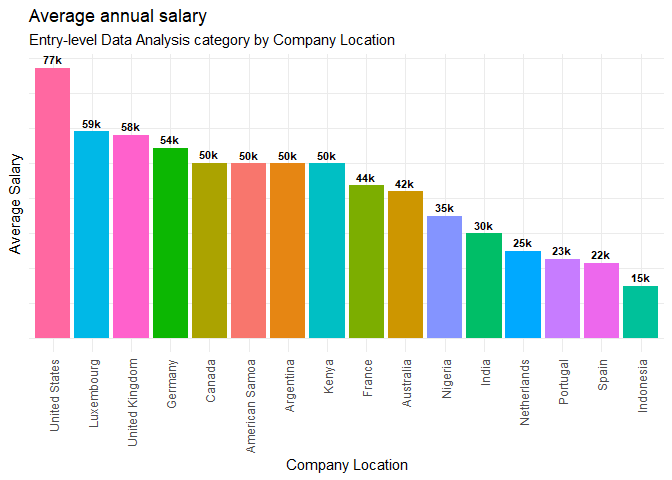
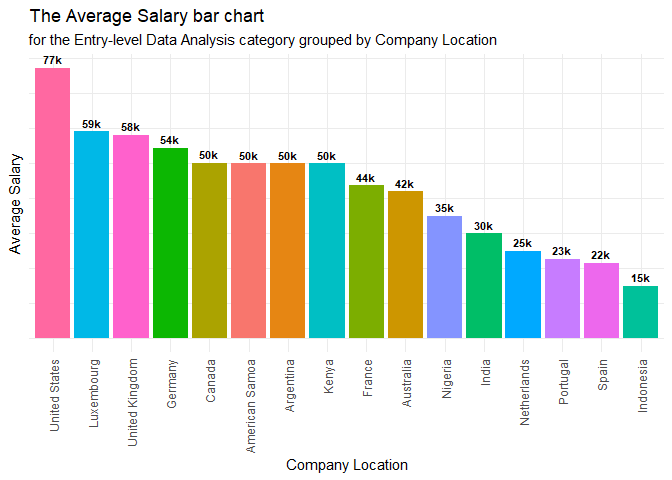
updating

Changed region(s): [[0.0312, 0.0, 0.75, 0.0938]]

diff --git a/Jobs_Salary_Data_Science.md b/Jobs_Salary_Data_Science.md
@@ -12,7 +12,7 @@ Jobs and Salaries in Data-Related Careers
   - [6.1 Average salary x `job_category` x
     `experience level`](#61-average-salary-x-job_category-x-experience-level)
   - [6.2 Exploring the Entry-level Data Analysis
-    profession](#62-exploring-the-entry-level-data-analysis-profession)
+    category](#62-exploring-the-entry-level-data-analysis-category)
   - [6.3 Where does the Entry-level Data Analysis job category have the
     best
     salaries?](#63-where-does-the-entry-level-data-analysis-job-category-have-the-best-salaries)
@@ -561,7 +561,7 @@ ggplot(summary_table, aes(x = experience_level, y = job_category, fill = average
   geom_tile(color = "white", linewidth = 0.5) +  # Add borders to tiles
   geom_text(aes(label = scales::number_format(accuracy = 1, scale = 1e-3, suffix = "k")(average_salary)), vjust = 1, size = 3, fontface = "bold") +
   scale_fill_gradient(low = "yellow", high = "blue", name = "Average Salary in USD", labels = scales::number_format(accuracy = 1, scale = 1e-3, suffix = "k")) +  # Customize the color scale
-  labs(title = "Average Salary in USD Heat Map", subtitle = "Grouped by Job Category and Experience Level",
+  labs(title = "The Average Salary Heat Map", subtitle = "Grouped by Job Category and Experience Level",
        x = "Experience Level",
        y = "Job Category") +
   theme_minimal()  # Use a minimal theme 
@@ -591,7 +591,7 @@ Based on the heat map results, the following observations can be made:
   positions of ‘Machine Learning AI’ with 207k and ‘Data Science and
   Research’ with 204k.
 
-## 6.2 Exploring the Entry-level Data Analysis profession
+## 6.2 Exploring the Entry-level Data Analysis category
 
 This section focuses on the **Entry-level Data Analysis subgroup** as it
 pertains to the business task.
@@ -616,7 +616,7 @@ summary_table <- data_analyst %>%  # create a summary tibble
 ggplot(summary_table, aes(x = experience_level, y = frequency, fill = experience_level)) +
   geom_bar(stat = "identity", position = "dodge") +
   geom_text(aes(label = frequency, vjust = 0.0)) +
-  labs(title = "Experience level distribution",
+  labs(title = "Experience level ocurrences bar chart",
        x = "Experience level",
        y = "Frequency",
        subtitle = " for the Data Analysis job category"
@@ -631,7 +631,7 @@ ggplot(summary_table, aes(x = experience_level, y = frequency, fill = experience
 ggplot(data_analyst, aes(x = experience_level, y = salary_in_usd, fill = experience_level)) +
   geom_violin() +
   geom_boxplot(width = 0.2, fill = "white", color = "darkgrey", outlier.shape = NA) +
-  labs(title = "Data Analysis profession Salary by Experience Level", x = "Experience Level", y = "Salary (USD)") +
+  labs(title = "The violin plot Salary: Data Analysis category", subtitle = "Grouped by Experience Level", x = "Experience Level", y = "Salary (USD)") +
   stat_summary(fun.data = mean_cl_normal, geom = "text", size = 3, color = "black", fontface = "bold", aes(label = format_label(..y..))) +  # Display mean value
   scale_y_continuous(labels = scales::number_format(accuracy = 1, scale = 1e-3, suffix = "k"), breaks = seq(10000, 430000, by = 30000)) +  # Format y-axis labels
   theme_minimal()
@@ -673,7 +673,7 @@ summary_table <- data_analyst_entry %>%
 ggplot(summary_table, aes(x = reorder(company_location, -avg_salary_entry_level), y = avg_salary_entry_level, fill = company_location)) +
   geom_bar(stat = "identity", position = "dodge") +
   geom_text(aes(label = scales::number_format(accuracy = 1, scale = 1e-3, suffix = "k")(avg_salary_entry_level)), vjust = -0.5, size = 3, fontface = "bold") +
-  labs(title = "Average annual salary", subtitle = "Entry-level Data Analysis category by Company Location",
+  labs(title = "The Average Salary bar chart", subtitle = "for the Entry-level Data Analysis category grouped by Company Location",
        x = "Company Location",
        y = "Average Salary"
        ) +
@@ -712,7 +712,7 @@ data_analyst_entry$company_size <- factor(data_analyst_entry$company_size, level
 ggplot(data_analyst_entry, aes(x = company_size, y = salary_in_usd, fill = company_size)) +
   geom_violin() +
   geom_boxplot(width = 0.2, fill = "white", color = "darkgrey", outlier.shape = NA) +
-  labs(title = "Data Analyst Entry-level Salary by Company Size", x = "Company Size", y = "Salary (USD)") +
+  labs(title = "The violin plot Salary: Entry-level Data Analysis category", subtitle = " Grouped by Company Size", x = "Company Size", y = "Salary (USD)") +
   stat_summary(fun.data = mean_cl_normal, geom = "text", size = 3, color = "black", fontface = "bold", aes(label = format_label(..y..))) +  # Display mean value
   scale_y_continuous(labels = scales::number_format(accuracy = 1, scale = 1e-3, suffix = "k"), breaks = seq(0, 164000, by = 15000)) +  # Format y-axis labels
   theme_minimal()
@@ -741,7 +741,7 @@ After analyzing the violin plot, I have made the following observations:
 ggplot(data_analyst_entry, aes(x = work_setting, y = salary_in_usd, fill = work_setting)) +
   geom_violin() +
   geom_boxplot(width = 0.2, fill = "white", color = "darkgrey", outlier.shape = NA) +
-  labs(title = "Data Analyst Entry-level Salary by Work Setting", x = "Work Setting", y = "Salary (USD)") +
+  labs(title = "The violin plot Salary: Entry-level Data Analysis category", subtitle = "Grouped by Work Setting", x = "Work Setting", y = "Salary (USD)") +
    stat_summary(fun.data = mean_cl_normal, geom = "text", size = 3, color = "black", fontface = "bold", aes(label = format_label(..y..))) +  # Display mean value
   scale_y_continuous(labels = scales::number_format(accuracy = 1, scale = 1e-3, suffix = "k"), breaks = seq(0, 165000, by = 10000)) +  # Format y-axis labels
   theme_minimal()
@@ -786,7 +786,7 @@ ggplot(summary_table, aes(x = experience_level, y = company_setting, fill = aver
   geom_tile(color = "white", linewidth = 0.5) +  # Add borders to tiles
   geom_text(aes(label = scales::number_format(accuracy = 1, scale = 1e-3, suffix = "k")(average_salary)), vjust = 1, size = 3, fontface = "bold") +
   scale_fill_gradient(low = "yellow", high = "blue", name = "Average Salary in USD", labels = scales::number_format(accuracy = 1, scale = 1e-3, suffix = "k")) +  # Customize the color scale
-  labs(title = "Average Salary: Data Analysis category in the United States", subtitle = "grouped by experience level, company size and work setting",
+  labs(title = "Average Salary Heat Map: Data Analysis category in the United States", subtitle = "Grouped by experience level, company size and work setting",
        x = "Experience Level",
        y = "Company size / Work setting") +
   theme_minimal()  # Use a minimal theme 
